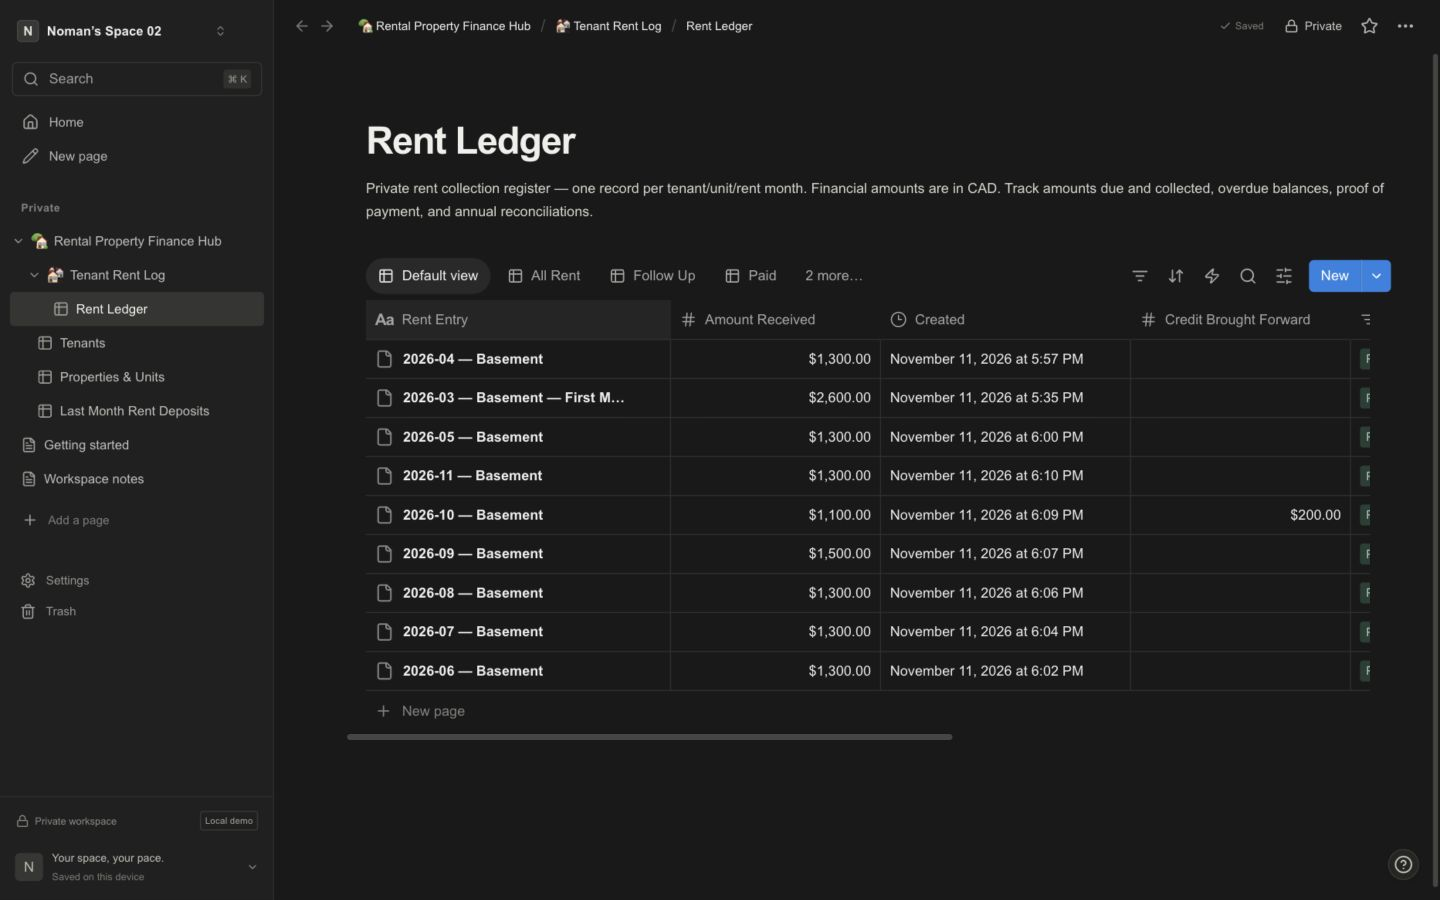
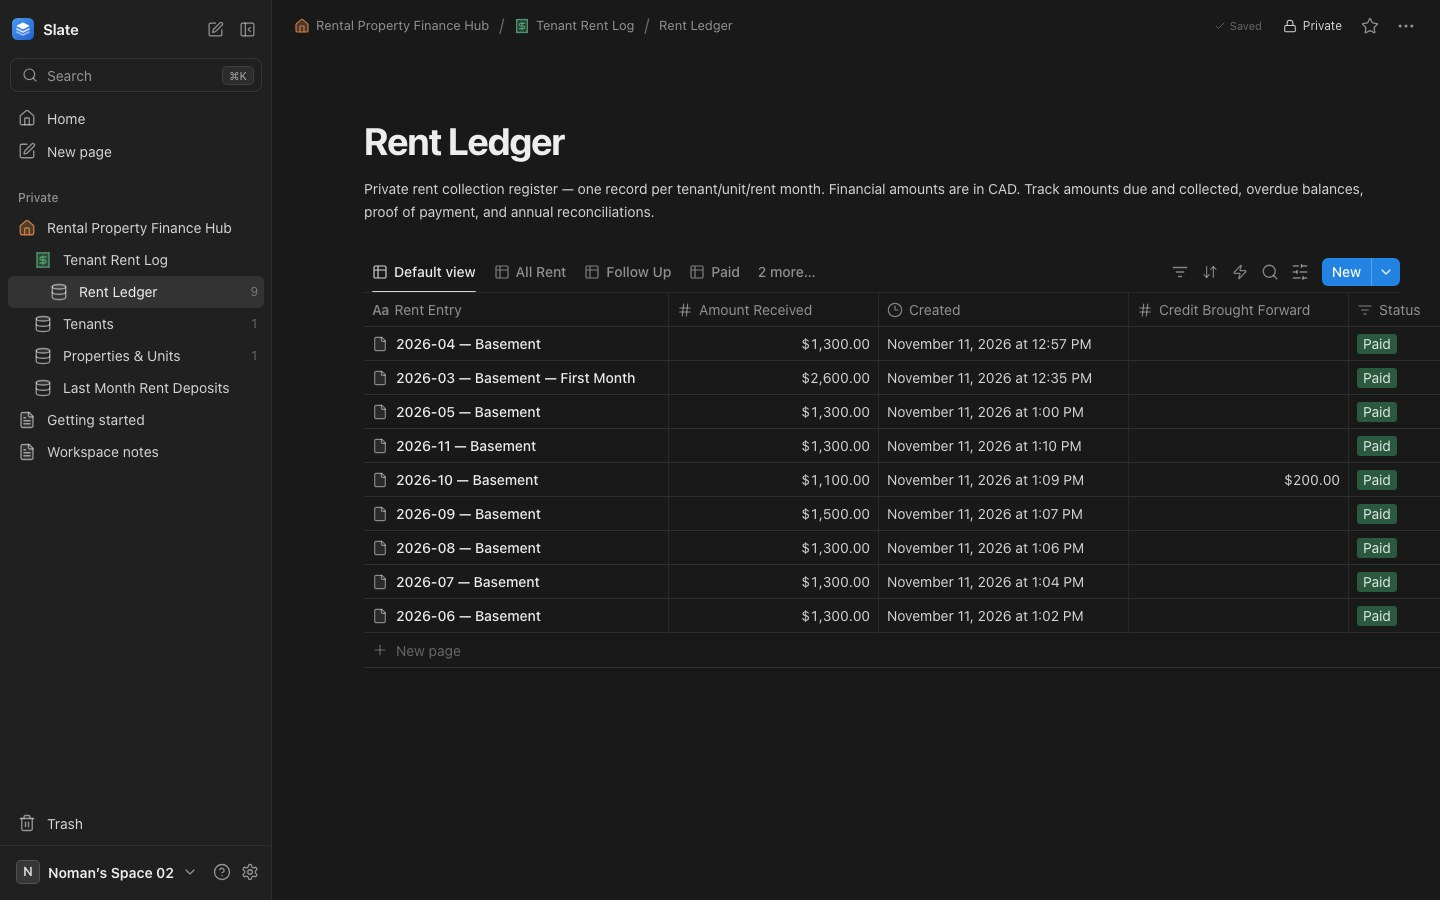
docs: refresh the README and its screenshot
Describe Slate as it is now: features, sign-in-only local setup with
Supabase, project layout, MCP agent access, playbook API step limits,
what each test suite covers, the slate.noman.io deploy, and known
limits. The preview screenshot shows the current workspace.

diff --git a/README.md b/README.md
@@ -1,66 +1,89 @@
 # Slate
 
-A dark, desktop-oriented notes and database workspace inspired by the supplied Notion reference. Built with Next.js App Router, React, TypeScript, Tiptap, CodeMirror, TanStack Table/Virtual, Radix, Supabase, and the OpenNext adapter for Cloudflare Workers.
+A private workspace where notes, databases and runnable playbooks live together, and AI agents can read it all. Live at **https://slate.noman.io**.
+
+Built with Next.js 16 (App Router), React 19, TypeScript, Tiptap, CodeMirror, TanStack Table/Virtual, dnd-kit, Radix, Supabase (Auth, Postgres, Storage) and the OpenNext adapter for Cloudflare Workers.
 
 ![Slate Rent Ledger preview](docs/preview.jpg)
 
+## What's in it
+
+- **Accounts, no demo.** Everyone registers or logs in with Supabase Auth; each account gets an empty private workspace. Supabase is the only store.
+- **Pages.** A Notion-style editor: `/` commands, Markdown shortcuts, to-dos, tables, code blocks, callouts, images (private uploads) and nested subpages that appear as blocks in their parent. Every page can switch to a Markdown source view; Markdown is the stored format.
+- **Databases.** Table, board and list views with filters, sorts, hidden and reordered properties. Property types include status, select, date, currency, relation, rollup and formula. Records open as a side peek or a full page. Databases can live inside pages, and linked views of a database keep views of their own. Export to CSV.
+- **Playbooks.** Checklists you can run. Steps are Check, Ask, Say, Decide (branch on an answer), Call (an HTTP API) and Finish, grouped into sections, with typed inputs filled in when a run starts. About 15 templates cover home & property, support, operations and automations. Runs can pause and resume, and every run is saved as a record in the playbook's own Runs database. The builder points out mistakes (a jump to a missing section, a value that doesn't exist, a run that never finishes).
+- **AI agents over MCP.** Settings › AI agents creates `slate_…` keys; an agent uses one to search and read pages, databases and playbooks. Read-only; keys can be revoked.
+- **Light and dark.** System, Light or Dark, chosen in Settings or the landing page footer. The landing page uses the app's own design tokens, so both look the same.
+
 ## Run locally
 
-Use Node.js 22.12 or later (22 LTS recommended) and npm.
+Use Node.js 22.12 or later (22 LTS recommended) and npm. If you use nvm, `nvm install && nvm use` picks the version in `.nvmrc`. Check `node --version` in the same terminal: installing a newer Node doesn't change terminals that still have an older one first on `PATH`.
 
-If you use nvm, select the version in `.nvmrc` first:
-
-```sh
-nvm install
-nvm use
-```
-
-Check `node --version` in the same terminal before starting the app. Installing a newer Node version does not change terminals that still have an older version first on `PATH`.
+Slate needs Supabase to sign in, so start the local stack first. Install the [Supabase CLI](https://supabase.com/docs/guides/local-development/cli/getting-started), start Docker, then:
 
 ```sh
-node --version
 npm ci
+supabase start
+supabase status
 test -f .env.local || cp .env.example .env.local
 ```
 
-Slate has no demo mode: everyone signs in, and Supabase is the only store. Set both `NEXT_PUBLIC_SUPABASE_URL` and `NEXT_PUBLIC_SUPABASE_PUBLISHABLE_KEY` in `.env.local` (for local development, from [Local Supabase](#local-supabase) below), then run:
+Copy the API URL and publishable key from `supabase status` into `NEXT_PUBLIC_SUPABASE_URL` and `NEXT_PUBLIC_SUPABASE_PUBLISHABLE_KEY` in `.env.local`. **Never put a service-role (secret) key in a `NEXT_PUBLIC_` variable.** Then:
 
 ```sh
 npm run dev
 ```
 
-Open http://localhost:3000 for the front page, then register or log in to reach the workspace at http://localhost:3000/app. Registration creates an empty private workspace. These are the project URL and public publishable key from Supabase. **Never use a service-role key in a `NEXT_PUBLIC_` variable.** Without the two variables, the front page still loads, but the workspace redirects to the login page, which explains that Supabase isn't connected.
+Open http://localhost:3000 and register; the workspace is at http://localhost:3000/app. Without the two Supabase variables the front page still loads, but the workspace redirects to the login page, which explains that Supabase isn't connected.
+
+`supabase db reset` re-applies the migrations to an empty database. Local email confirmations are off (`supabase/config.toml`); hosted projects should turn them on. The local config also raises the sign-in rate limit, because the browser tests sign in a fresh account for every test.
 
 ### Tailwind / magic-string ESM error
 
-An error saying `require() of ES Module .../magic-string/dist/index.mjs not supported` can occur when the shell uses an older Node runtime, including Node 20.17. The installed Tailwind dependency needs the ESM `require()` support enabled by default in [Node 22.12](https://nodejs.org/en/blog/release/v22.12.0). Switch to Node 22.12 or newer, stop the failed dev server with Ctrl+C, and run `npm run dev` again. The dev and build scripts check the runtime version before launching the tooling.
+`require() of ES Module .../magic-string/dist/index.mjs not supported` means the shell is on an older Node (for example 20.17). Tailwind needs the ESM `require()` support that is on by default from [Node 22.12](https://nodejs.org/en/blog/release/v22.12.0). Switch Node, stop the failed server with Ctrl+C, and run `npm run dev` again. The dev and build scripts check the Node version first.
 
-### Local Supabase
+## Project layout
 
-Install the [Supabase CLI](https://supabase.com/docs/guides/local-development/cli/getting-started) and start Docker:
+| Path | What's there |
+| --- | --- |
+| `src/app/page.tsx`, `landing.css` | Landing page (adapts to signed-in visitors) |
+| `src/app/app`, `src/app/p/[id]` | The workspace (`/app`, `/p/<page id>`) |
+| `src/app/auth/*` | Register, log in, forgot/reset password, auth callback |
+| `src/app/api/mcp` | MCP endpoint for AI agents |
+| `src/app/api/run-request` | Server-side sender for playbook API steps |
+| `src/app/api/attachments/[id]` | Signed redirects to private uploads |
+| `src/middleware.ts` | Session refresh and sign-in redirect |
+| `src/components/workspace-app.tsx` | Workspace shell: sidebar, pages, runs, dialogs |
+| `src/components/editor/*` | Tiptap editor, Markdown source pane, playbook step blocks |
+| `src/components/database/*` | Database views |
+| `src/lib/use-workspace.ts`, `persistence.ts` | Client state, saving and sync with Supabase |
+| `src/lib/markdown.ts` | Markdown ↔ blocks (`:::slate` / `:::slate-node` lines) |
+| `src/lib/runner.ts`, `runs.ts`, `playbook-*.ts`, `procedures.ts` | Running playbooks, run history, builder model and checks, templates |
+| `src/lib/agent-tools.ts`, `mcp.ts`, `agent-keys.ts` | Agent tools, MCP protocol, agent keys |
+| `supabase/migrations`, `supabase/tests` | Schema, policies, functions; pgTAP tests |
+| `tests/*.test.ts`, `tests/browser`, `tests/fixtures/seed.ts` | Unit tests, Playwright suite, example rental workspace |
 
-```sh
-supabase start
-supabase db reset
-supabase status
-```
-
-Copy the local API URL and publishable key from `supabase status` into `.env.local`, restart the app, and register. Local email confirmations are disabled by `supabase/config.toml`; hosted projects should enable them. Migrations create the schema, indexes, authorization policies, private Storage bucket, account bootstrap trigger, and transactional persistence functions. No shared account is seeded. `supabase/config.toml` also raises the local sign-in rate limit, because the browser tests sign in a fresh account for every test.
+The `slate` names inside saved data (`:::slate` blocks, `slate_` key prefix, `slate-*` browser storage keys) are part of the stored format; renaming them would break existing pages, keys or drafts.
 
 ## Data and security
 
-Workspaces, pages, documents, databases, properties, records, cell values, views, relations, and attachments are separate PostgreSQL tables. Record values are independently queryable rows; flexible document content and view configuration use JSONB. The application never stores its entire state in one database JSON column.
+Workspaces, pages, documents, databases, properties, records, cell values, views, relations, attachments and agent keys are separate PostgreSQL tables. Record values are queryable rows; document content and view configuration use JSONB. The whole state is never stored in one JSON column.
 
-Every application table has owner-scoped Row Level Security. Composite foreign keys prevent a page, value, or relation from crossing workspace boundaries. A deferred trigger rejects page cycles; relation targets must belong to their configured database. Database record deletion cascades relation links. Workspace operations are owner-only; there are no invitations, public pages, or shared workspace roles.
+Every application table has owner-scoped Row Level Security. Composite foreign keys keep a page, value or relation from crossing workspace boundaries. A deferred trigger rejects page cycles; relation targets must belong to their configured database; deleting a record removes its relation links. Workspaces are owner-only: there are no invitations, public pages or shared roles.
 
-`load_workspace_state` assembles a consistent snapshot from normalized tables. `save_workspace_state` applies a transaction and increments a revision under a row lock. A stale tab receives a conflict instead of overwriting another tab’s changes. The client journals unsynced changes in a per-account local outbox and warns before closing a tab with pending remote edits. On reload it replays a draft only when its base revision still matches the authoritative server revision. A conflicting draft is offered as a recovery download instead of overwriting newer remote data. Synchronization errors retain the local edits; resolve the conflict before continuing. This snapshot transport is intentionally simple; cursor-based incremental synchronization is a future improvement for very large workspaces.
+`load_workspace_state` assembles a consistent snapshot from the normalized tables. `save_workspace_state` applies a whole snapshot in one transaction and bumps a revision under a row lock, so a stale tab gets a conflict instead of overwriting another tab's changes. The client keeps unsynced changes in a per-account local outbox and warns before closing a tab with unsaved edits. On reload it replays that draft only if its base revision still matches the server; otherwise the draft is offered as a download rather than overwriting newer data. Snapshot sync is deliberately simple; incremental sync is future work for very large workspaces.
 
-Session cookies use `@supabase/ssr`; middleware validates/refreshes the session, while Supabase RLS remains the data authorization boundary. Registration, login, logout, password recovery, and recovery callback routes use Supabase Auth. In the hosted Supabase dashboard, set the Site URL to the deployed origin and allow:
+Session cookies use `@supabase/ssr`. Middleware refreshes the session and sends signed-out visitors to the login page (or answers `401` for `/api/*`); RLS stays the real authorization boundary. Registration, login, logout and password recovery use Supabase Auth.
 
-- `https://YOUR-ORIGIN/auth/callback`
-- `https://YOUR-ORIGIN/auth/callback?next=/auth/reset`
+**Attachments.** The private `attachments` bucket takes images, PDFs and text files up to 20 MB, under keys that start with the owning workspace id. Documents keep stable `/api/attachments/:id` URLs; that endpoint checks ownership, the parent page and the object path, then redirects to a short-lived signed URL with private, no-store headers. A failed metadata insert rolls the upload back.
 
-The private `attachments` bucket accepts images, PDFs, and text files up to 20 MB. Object keys must begin with the owning workspace UUID. The editor uploads private images into workspace/page-scoped object keys with attachment metadata. Documents keep stable `/api/attachments/:id` URLs; that authenticated endpoint checks owner RLS, parent page existence, and the scoped object path, then creates a short-lived signed redirect with private no-store headers. Uploads roll back the object if metadata insertion fails. Private files do not become public.
+**Playbook API steps** are sent by `/api/run-request`, never from the browser. It requires a signed-in user, drops cookies and forwarding headers, doesn't follow redirects, blocks private and local addresses in production, and caps requests (200 KB), responses (1 MB) and time (15 s). Secret headers are masked in run history and links.
+
+**AI agents (MCP).** Keys are random `slate_…` secrets made in the browser; only a SHA-256 hash is stored, so a key is shown once. `/api/mcp` skips the session middleware: the route checks the key itself through `agent_workspace_state`, which returns the key owner's workspace read-only. It speaks stateless MCP over Streamable HTTP (one JSON-RPC message per POST; protocol versions 2025-06-18, 2025-03-26 and 2024-11-05) and offers five read-only tools: `search_workspace`, `read_page`, `list_databases`, `query_database` and `list_playbooks`. Page content is returned as clearly marked workspace data, not instructions. To connect Claude Code:
+
+```sh
+claude mcp add --transport http slate https://slate.noman.io/api/mcp --header "Authorization: Bearer slate_YOUR_KEY"
+```
 
 ## Development checks
 
@@ -76,11 +99,16 @@ npm run test:e2e
 npm run test:auth
 ```
 
-Unit tests cover document serialization and database computation. The SQL tests cover registration bootstrap, RLS isolation, unauthorized inserts, normalized snapshot ownership, and stale-save rejection. Running database and authentication tests requires the local Supabase Docker stack. The HTTP auth test refuses non-loopback URLs, creates unique temporary accounts, checks registration/login/session refresh, workspace bootstrap, nested-page and relational persistence, per-view column order, cross-account read/write isolation, stale revisions, password changes, reauthentication, and logout, then removes its accounts. `.github/workflows/ci.yml` runs application, database, and HTTP auth checks in CI. The Playwright suite also needs the local stack: for each test it creates a throwaway account holding the example rental workspace (`tests/fixtures/seed.ts`), signs in through the login form, and deletes the account afterwards. It starts its own dev server on port 3100 wired to `supabase status`; set `PLAYWRIGHT_BASE_URL` to use a server you run yourself. `.github/workflows/browser.yml` starts Supabase before running it. Set `SUPABASE_TEST_WORKDIR` to use an isolated Supabase CLI checkout.
+- **Unit tests** (`npm test`, Vitest): Markdown and editor round trips, page blocks, databases and formulas, page duplication and the page tree, playbook model, checks and runner, API request rules, agent tools, attachments, and the deploy configuration check.
+- **Database tests** (`supabase test db`, pgTAP): registration bootstrap, RLS isolation, unauthorized inserts, snapshot ownership, stale-save rejection and relation rules.
+- **HTTP auth test** (`npm run test:auth`): against local Supabase only. Creates temporary accounts and checks registration, login, session refresh, workspace bootstrap, nested-page and relational persistence, per-view column order, cross-account isolation, stale revisions, password changes, reauthentication and logout, then removes the accounts.
+- **Browser tests** (`npm run test:e2e`, Playwright): need `supabase start`. Each test creates a throwaway account holding the example rental workspace (`tests/fixtures/seed.ts`), signs in through the login form, and deletes the account afterwards. The suite starts its own dev server on port 3100 wired to `supabase status`, so stop any other `next dev` in this folder first (Next allows one per project). Set `PLAYWRIGHT_BASE_URL` to test a server you run yourself. API steps are stubbed at `/api/run-request`.
+
+Database, auth and browser tests need Docker. Set `SUPABASE_TEST_WORKDIR` to use an isolated Supabase CLI checkout. In CI, `.github/workflows/ci.yml` runs typecheck, lint, unit tests, the Worker build, database tests and the HTTP auth test; `.github/workflows/browser.yml` starts Supabase and runs the Playwright suite.
 
 ## Cloudflare Workers
 
-The repository follows the official [Cloudflare Next.js guide](https://developers.cloudflare.com/workers/framework-guides/web-apps/nextjs/) and [OpenNext adapter setup](https://opennext.js.org/cloudflare/get-started). This is a Workers target with `nodejs_compat`, not a Cloudflare Pages static export.
+The repository follows the [Cloudflare Next.js guide](https://developers.cloudflare.com/workers/framework-guides/web-apps/nextjs/) and the [OpenNext adapter setup](https://opennext.js.org/cloudflare/get-started). It is a Workers target with `nodejs_compat`, not a Pages static export.
 
 ```sh
 npm run build:worker
@@ -88,15 +116,15 @@ npm run preview
 npm run deploy
 ```
 
-`preview` builds and serves the Worker through Wrangler. `deploy` builds and publishes the Worker through `scripts/deploy-worker.mjs`. That script loads production environment files, validates that the supplied Supabase key is public, and generates an ignored temporary Wrangler configuration with explicit runtime bindings. The generated configuration is removed after the command. `npm run deploy:check` validates configuration without deploying. Authenticate Wrangler locally or set `CLOUDFLARE_API_TOKEN` and `CLOUDFLARE_ACCOUNT_ID`. The API token needs Worker deployment permissions for the intended account. Change the Worker name in `wrangler.jsonc` as needed.
+`preview` builds and serves the Worker through Wrangler. `deploy` builds and publishes it through `scripts/deploy-worker.mjs`, which loads production environment files, checks that the Supabase key is a public one, and writes a temporary Wrangler config with explicit runtime bindings (removed afterwards). `npm run deploy:check` validates without deploying. Authenticate Wrangler locally or set `CLOUDFLARE_API_TOKEN` and `CLOUDFLARE_ACCOUNT_ID`.
 
-The Supabase URL and publishable key must exist at build time because Next.js embeds `NEXT_PUBLIC_` values into browser assets. The deployment script explicitly binds the same values to the Worker runtime so authentication middleware receives them; do not deploy a production build without them. `NEXT_PUBLIC_APP_URL` documents the canonical origin; auth redirects use the current origin to support previews. Add each permitted preview origin explicitly to Supabase Auth redirect URLs.
+The Supabase URL and publishable key must be present at build time, because Next.js embeds `NEXT_PUBLIC_` values in browser assets; the deploy script also binds them to the Worker runtime for the middleware. `NEXT_PUBLIC_APP_URL` records the canonical origin. Auth redirects use the current origin, so add any preview origin to Supabase's redirect URLs explicitly.
 
 ### Production domain: slate.noman.io
 
-Production runs at **https://slate.noman.io**. `wrangler.jsonc` attaches the Worker to that hostname as a [Workers Custom Domain](https://developers.cloudflare.com/workers/configuration/routing/custom-domains/), so the first deploy creates the DNS record and certificate. One-time setup:
+`wrangler.jsonc` attaches the Worker (`slate-workspace`) to **slate.noman.io** as a [Workers Custom Domain](https://developers.cloudflare.com/workers/configuration/routing/custom-domains/), so the first deploy creates the DNS record and certificate. One-time setup:
 
-1. **Cloudflare:** `noman.io` must be a zone in the same Cloudflare account as the Worker, with no existing DNS record for `slate`. The `CLOUDFLARE_API_TOKEN` needs Workers Scripts edit, plus Workers Routes and DNS edit on the `noman.io` zone.
+1. **Cloudflare:** `noman.io` must be a zone in the same Cloudflare account as the Worker, with no existing DNS record for `slate`. `CLOUDFLARE_API_TOKEN` needs Workers Scripts edit, plus Workers Routes and DNS edit on the `noman.io` zone.
 2. **GitHub:** in the `production` environment, set `NEXT_PUBLIC_APP_URL` to `https://slate.noman.io`.
 3. **Supabase Auth → URL Configuration:** set the Site URL to `https://slate.noman.io` and add these redirect URLs:
    - `https://slate.noman.io/auth/callback`
@@ -105,25 +133,27 @@ Production runs at **https://slate.noman.io**. `wrangler.jsonc` attaches the Wor
 
 ### GitHub deployment
 
-The production workflow is manually dispatched and uses the GitHub `production` environment. It runs checks, applies Supabase migrations, builds the Worker, and deploys it. Configure:
+The *Deploy production* workflow is started by hand and uses the GitHub `production` environment. It runs the checks, applies Supabase migrations, builds the Worker and deploys it. Configure:
 
 | Kind | Name | Purpose |
 | --- | --- | --- |
 | Variable | `NEXT_PUBLIC_SUPABASE_URL` | Supabase project URL, build and runtime |
 | Variable | `NEXT_PUBLIC_SUPABASE_PUBLISHABLE_KEY` | Public publishable key, build and runtime |
 | Variable | `NEXT_PUBLIC_APP_URL` | Production origin: `https://slate.noman.io` |
-| Secret | `SUPABASE_DB_URL` | Supabase PostgreSQL connection URI for migration application |
+| Secret | `SUPABASE_DB_URL` | Supabase Postgres connection URI, for applying migrations |
 | Secret | `CLOUDFLARE_API_TOKEN` | Deploy the Worker |
 | Secret | `CLOUDFLARE_ACCOUNT_ID` | Target Cloudflare account |
 
-Apply migrations to a staging Supabase project before production. No remote project is created, no migrations are applied remotely, and no production deployment occurs merely by running the app locally.
+Try migrations on a staging Supabase project before production. Running the app locally never creates a remote project, applies remote migrations or deploys.
 
-## Scope and operational limits
+## Scope and known limits
 
-This repository implements an initial single-owner product, not multi-user live collaboration. Remote sync is serialized snapshot transport with optimistic revision checking; realtime merging and cursor-based data loading are not implemented. Documents accept external image URLs and private image uploads. Removing an image block does not delete the object. Recoverable source-page Trash retains owner image access for copied documents. Permanent page/workspace deletion cascades attachment metadata, but object garbage collection is not implemented. Production authentication and cross-user isolation must be verified against your configured Supabase project, and production deployment requires your own Cloudflare/Supabase configuration.
+- Single owner per workspace; no sharing or live collaboration. Sync sends whole snapshots with optimistic revision checks; no realtime merging or incremental loading.
+- Reloading or leaving within about a second of an edit, while that save is still in flight, can turn the latest edit into an "unsynced draft" download instead of showing it after reload.
+- Removing an image block doesn't delete the stored file. Deleting pages or workspaces removes attachment metadata, but stored objects aren't garbage-collected.
+- Next.js 16 warns that the `middleware` file convention is deprecated in favour of `proxy`; it still works.
+- Production sign-in and cross-account isolation should be checked against your own Supabase project after deploying.
 
-## Verification performed
+## Last verified
 
-The application migration has been applied to an isolated local Supabase stack, and the 14 pgTAP authorization/relation checks passed. HTTP authentication and normalized persistence smoke tests run against that stack, including cross-account denial and reauthentication, plus private image upload, owner signing, foreign object/read-sign denial, and attachment path constraints. An isolated configured Next.js browser session also verified login, creating and editing a page, the saved state after refresh, and uploading a PNG through the editor; its stable authenticated image URL loaded successfully before and after refresh. Disposable test accounts, image objects, and the isolated preview services were removed afterward. Production credentials and a production deployment are not part of these local checks.
-
-The final local checks passed TypeScript, ESLint, 49 unit tests, and the Cloudflare Worker build/runtime smoke check. Browser checks covered 1440px, 1280px, and mobile layouts; Markdown shortcuts and mode switching; inline databases; record editing; refresh persistence; saved filters and board views; and Trash restoration. Against the isolated Supabase stack, browser login, authenticated page saving, refresh persistence, and private image upload/restoration also passed. The Playwright regression suite is configured for CI; these local browser checks used the live preview.
+On 14 November 2026, locally: TypeScript, ESLint, 100 unit tests, and the 42-test Playwright suite against a local Supabase stack, including signing in, the example workspace, and an agent key reading the workspace over MCP with no session. The pgTAP suite (14 checks), the HTTP auth test and the Worker build weren't rerun in that pass.
